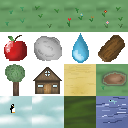
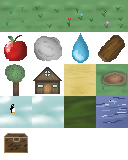
BuildingGenerator creates house with 2 chests.

diff --git a/survival/generators/building_generator.py b/survival/generators/building_generator.py
@@ -5,14 +5,25 @@ from survival.components.sprite_component import SpriteComponent
 
 
 class BuildingGenerator:
-    def create_home(self, world, game_map):
+    def create_home(self, world, game_map, position = [10,10]):
         home = world.create_entity()
-        pos = PositionComponent([32, 32], [32, 32])
-        world.add_component(home, pos)
+        home_pos = PositionComponent([position[0]*32, position[1]*32], position)
+        world.add_component(home, home_pos)
+        game_map.add_entity(home, home_pos)
         world.add_component(home, InventoryComponent())
-
-        game_map.add_entity(home, pos)
-        sprite = SpriteComponent('tree.png')
-        sprite.set_scale(2)
+        sprite = SpriteComponent('home.png')
         world.add_component(home, sprite)
         world.add_component(home, CollisionComponent())
+
+        for x_pos in [-1, 1]:
+            chest = world.create_entity()
+            chest_pos = PositionComponent(
+                [(position[0]+x_pos)*32, position[1]*32],
+                [position[0]+x_pos, position[1]]
+            )
+            world.add_component(chest, chest_pos)
+            game_map.add_entity(chest, chest_pos)
+            world.add_component(chest, InventoryComponent())
+            sprite = SpriteComponent('chest.png')
+            world.add_component(chest, sprite)
+            world.add_component(chest, CollisionComponent())
